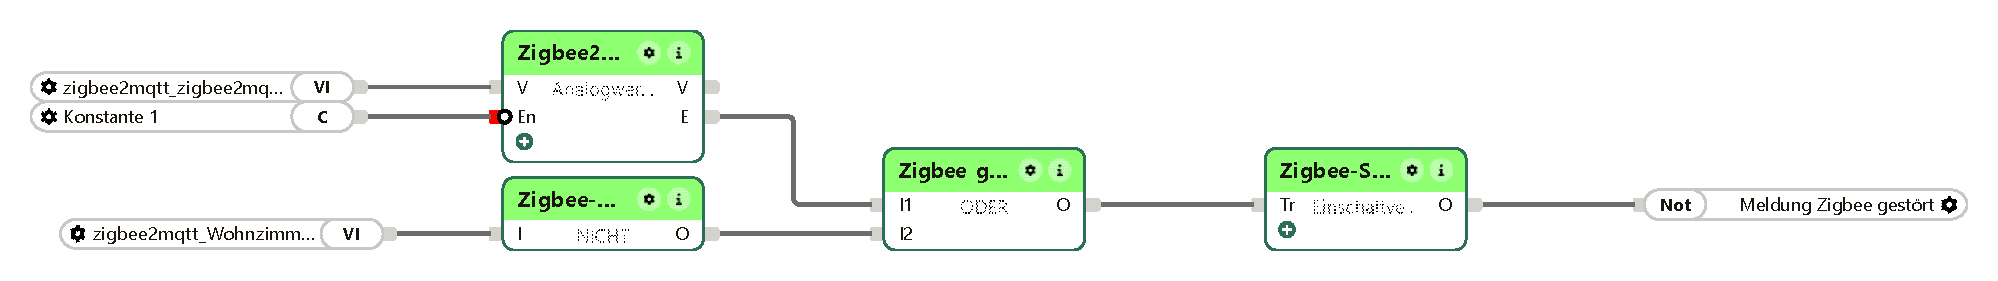
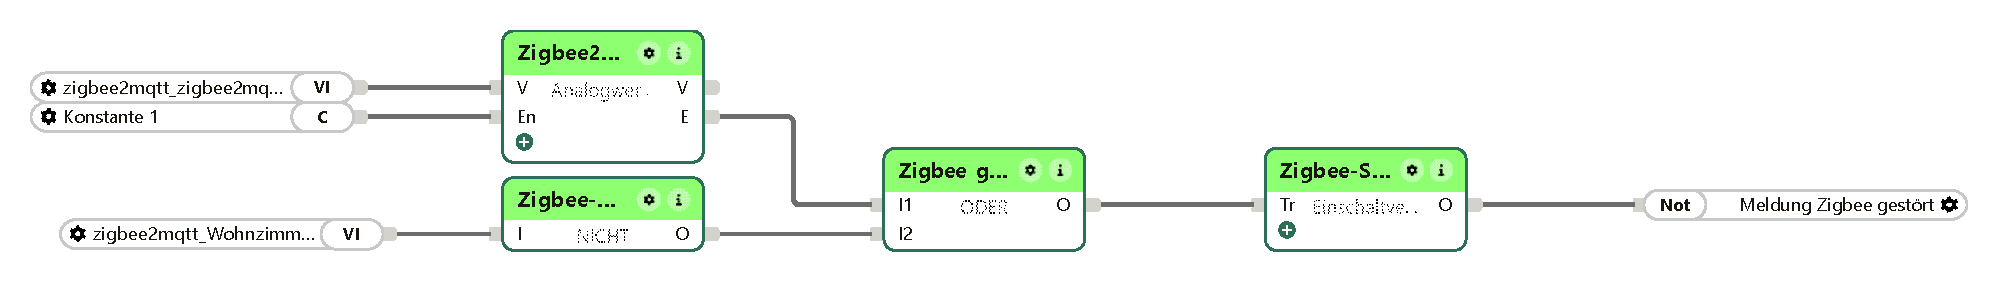
Zigbee2MqttNG 4.2.2: Analogwertvalidierung - Eingang En nicht negieren
Hinweis und Bild der Einbindung: Config legt den Eingang En negiert an; den Haken bei En
entfernen, damit die Konstante 1 als 1 ankommt.

diff --git a/templates/loxone.html b/templates/loxone.html
@@ -175,6 +175,7 @@
         <tr><td>12</td><td>{{ 'Baustein.T_ALARM' | trans }}</td><td>{{ 'Baustein.N12' | trans }}</td><td>{{ 'Baustein.P12' | trans }}</td><td>{{ 'Baustein.E12' | trans }}</td></tr>
     </table>
     <p class="hint">{{ 'Baustein.Zu2' | trans }}</p>
+    <p class="hint">{{ 'Baustein.Zu2En' | trans }}</p>
     <p class="hint">{{ 'Baustein.Zu5' | trans }}</p>
     <p class="hint">{{ 'Baustein.Zu7' | trans }}</p>
     <p class="hint">{{ 'Baustein.Zu10' | trans }}</p>

diff --git a/README.md b/README.md
@@ -8,6 +8,21 @@ Zigbee2MqttNG ist ein Fork des Plugins [Zigbee2Mqtt](https://github.com/romanlum
 Es ist ein **eigenständiges Plugin** (Name/Ordner `zigbee2mqttng`, Dienst `zigbee2mqttng`, Installation in `/opt/zigbee2mqttng`)
 und kollidiert deshalb nicht mit dem Original. Bis Version 4.0.0 hieß das Plugin **Zigbee2Lox**.
 
+## Neu in 4.2.2
+
+Einbindung in Loxone: Eingang En der Analogwertvalidierung nicht negieren (Hinweis und Bild); ohne diese
+Korrektur löste die Ausfallmeldung nie aus. Wer die Seite schon gebaut hat: Haken bei ‚En‘ entfernen.
+
+* Config legt den Eingang En der Analogwertvalidierung negiert an (Haken bei ‚En‘ im Eigenschaftsfenster
+  unter Parameter). Die Konstante 1 kam dadurch als 0 an, die Validierung prüfte die Zeit Tmc nicht.
+  Der Reiter „Einbindung in Loxone“ sagt das jetzt unter der Baustein-Liste bei Zeile 2; der Hinweis
+  zu #2 ist berichtigt (unbeschaltet steht En auf EIN).
+* Das Bild der Seite „Zigbee2MqttNG“ aus dem
+  [LoxBerry-Plugins Musterprojekt](https://github.com/timanders22/LoxBerry-Plugins-Musterprojekt)
+  ist neu: En ohne Negation.
+* Baustein-Liste unverändert.
+* Gerendert unter PHP 7.4, 8.4 und 8.5 (deutsch und englisch), nicht am Gerät angesehen.
+
 ## Neu in 4.2.1
 
 Reiter „Einbindung in Loxone“ zeigt ein Bild der Bausteine aus dem gemeinsamen Musterprojekt und
